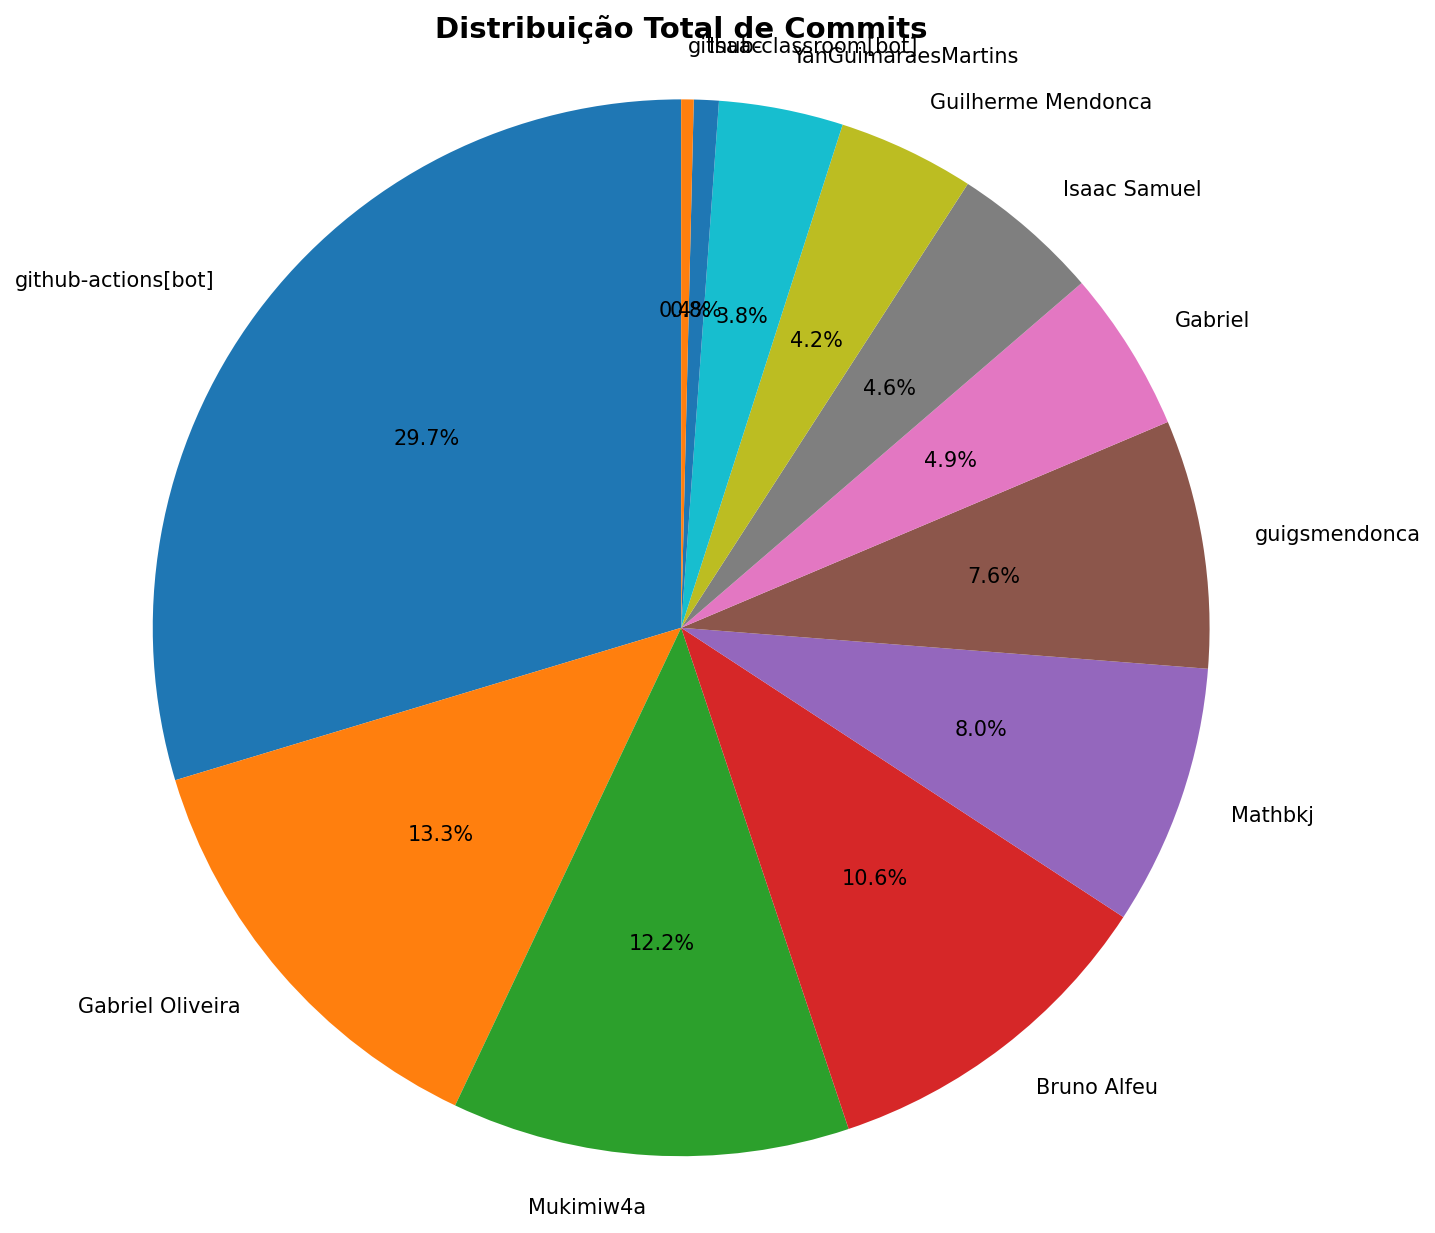
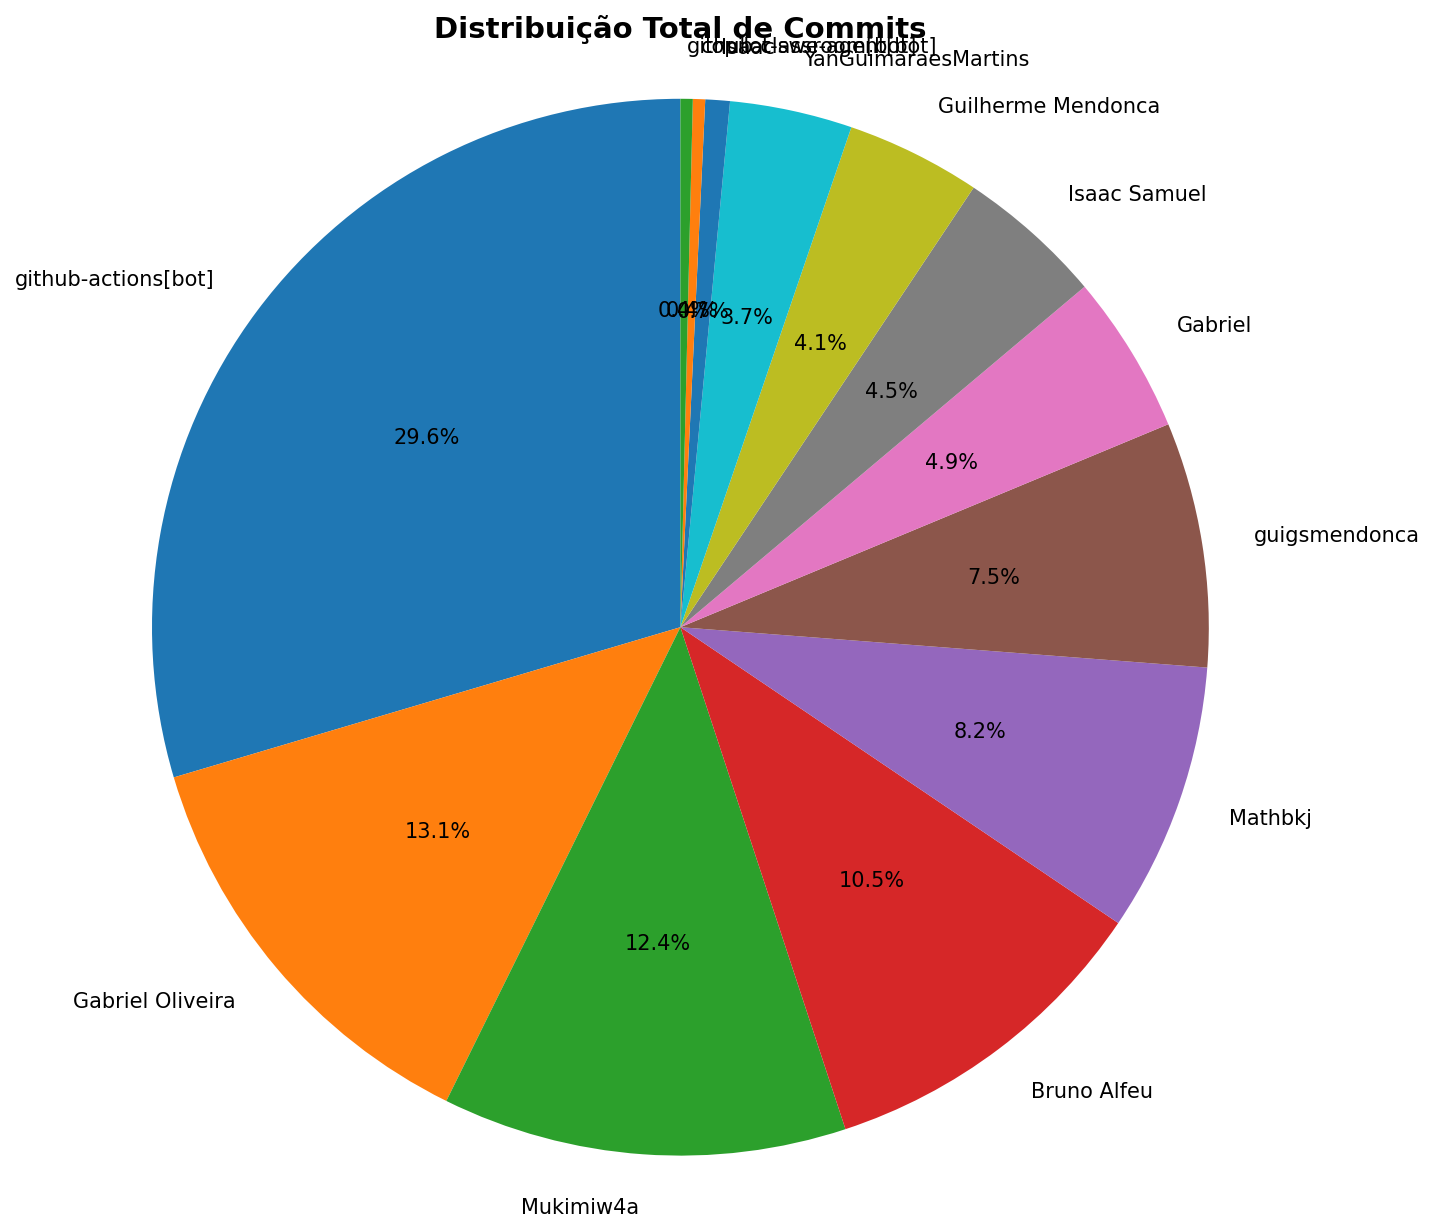
.

diff --git a/src/frontend-web/src/pages/auth/LoginPage.tsx b/src/frontend-web/src/pages/auth/LoginPage.tsx
@@ -61,6 +61,7 @@ export function LoginPage() {
             </span>
           </div>
 
+<<<<<<< HEAD
           <h1
             className="mb-8 text-5xl font-bold leading-tight"
             style={{ color: "var(--color-on-surface)" }}
@@ -69,6 +70,12 @@ export function LoginPage() {
             <span style={{ color: "var(--color-primary)" }}>
               ao Modernidade.
             </span>
+=======
+          <h1 className="mb-8 text-5xl font-bold leading-tight text-[#1f2937] lg:text-7xl">
+            Bem-vindo ao
+            <br />
+            <span className="text-[#2e4a7d]">Gestão de Condomínios</span>
+>>>>>>> 723e620 (.)
           </h1>
 
           <p

diff --git a/docs/CONTRIBUTION_REPORT.md b/docs/CONTRIBUTION_REPORT.md
@@ -1,34 +1,35 @@
 # 📊 Relatório de Contribuições do Projeto
 
-**Última atualização:** 04/05/2026 18:30
+**Última atualização:** 04/05/2026 20:33
 
 ---
 
 ## 📈 Resumo Geral de Contribuições
 
-| Aluno                 |   Commits |   Linhas+ |   Linhas- |   Arquivos |   Docs Commits |   Docs Arquivos |
-|-----------------------|-----------|-----------|-----------|------------|----------------|-----------------|
-| Bruno Alfeu           |        28 |      1070 |        70 |         32 |             15 |               5 |
-| Gabriel               |        13 |     99464 |       334 |        134 |              0 |               0 |
-| Gabriel Oliveira      |        35 |       208 |        80 |         13 |             29 |               5 |
-| Guilherme Mendonca    |        11 |      1079 |       362 |         20 |              9 |               3 |
-| Isaac                 |         2 |       424 |       224 |          6 |              0 |               0 |
-| Isaac Samuel          |        12 |        85 |        72 |          6 |             11 |               5 |
-| Mathbkj               |        21 |     21859 |       379 |        114 |              0 |               0 |
-| Mukimiw4a             |        32 |      1256 |       208 |         25 |             25 |               9 |
-| YanGuimaraesMartins   |        10 |       300 |        16 |          8 |              7 |               4 |
-| github-actions[bot]   |        78 |       559 |       543 |          3 |             78 |               1 |
-| github-classroom[bot] |         1 |      2152 |         0 |         45 |              1 |              13 |
-| guigsmendonca         |        20 |       178 |       150 |          9 |             16 |               4 |
+| Aluno                  |   Commits |   Linhas+ |   Linhas- |   Arquivos |   Docs Commits |   Docs Arquivos |
+|------------------------|-----------|-----------|-----------|------------|----------------|-----------------|
+| Bruno Alfeu            |        28 |      1070 |        70 |         32 |             15 |               5 |
+| Gabriel                |        13 |     99464 |       334 |        134 |              0 |               0 |
+| Gabriel Oliveira       |        35 |       208 |        80 |         13 |             29 |               5 |
+| Guilherme Mendonca     |        11 |      1079 |       362 |         20 |              9 |               3 |
+| Isaac                  |         2 |       424 |       224 |          6 |              0 |               0 |
+| Isaac Samuel           |        12 |        85 |        72 |          6 |             11 |               5 |
+| Mathbkj                |        22 |     25026 |       646 |        133 |              0 |               0 |
+| Mukimiw4a              |        33 |      1289 |       219 |         31 |             26 |               9 |
+| YanGuimaraesMartins    |        10 |       300 |        16 |          8 |              7 |               4 |
+| copilot-swe-agent[bot] |         1 |         0 |         0 |          0 |              0 |               0 |
+| github-actions[bot]    |        79 |       567 |       551 |          3 |             79 |               1 |
+| github-classroom[bot]  |         1 |      2152 |         0 |         45 |              1 |              13 |
+| guigsmendonca          |        20 |       178 |       150 |          9 |             16 |               4 |
 
 
 ## 📅 Contribuições Semanais (Todo o Semestre)
 
-**2026-04-27**: Bruno Alfeu: 2, Gabriel: 3, Gabriel Oliveira: 4, Mathbkj: 1, Mukimiw4a: 3, github-actions[bot]: 7
+**2026-04-27**: Bruno Alfeu: 2, Gabriel: 3, Gabriel Oliveira: 4, Mathbkj: 2, Mukimiw4a: 4, copilot-swe-agent[bot]: 1, github-actions[bot]: 8
 
-**2026-04-20**: Mukimiw4a: 5, github-actions[bot]: 6
+**2026-04-20**: github-actions[bot]: 1
 
-**2026-04-13**: Bruno Alfeu: 5, Gabriel Oliveira: 7, Isaac Samuel: 2, Mukimiw4a: 4, github-actions[bot]: 13
+**2026-04-13**: Bruno Alfeu: 5, Gabriel Oliveira: 7, Isaac Samuel: 2, Mukimiw4a: 9, github-actions[bot]: 18
 
 **2026-04-06**: Bruno Alfeu: 9, Gabriel: 5, Gabriel Oliveira: 7, Guilherme Mendonca: 4, Mathbkj: 10, Mukimiw4a: 7, github-actions[bot]: 26, guigsmendonca: 1
 
@@ -36,13 +37,13 @@
 
 **2026-03-23**: Gabriel: 2, Gabriel Oliveira: 3, Guilherme Mendonca: 2, Isaac: 1, Mathbkj: 2, Mukimiw4a: 3, github-actions[bot]: 12, guigsmendonca: 5
 
-**2026-03-16**: Bruno Alfeu: 3, Gabriel: 2, Gabriel Oliveira: 2, Guilherme Mendonca: 5, Isaac: 1, Isaac Samuel: 4, Mathbkj: 8, Mukimiw4a: 2, YanGuimaraesMartins: 3, github-actions[bot]: 12, guigsmendonca: 2
+**2026-03-16**: Bruno Alfeu: 3, Gabriel: 2, Gabriel Oliveira: 2, Guilherme Mendonca: 5, Isaac: 1, Isaac Samuel: 3, Mathbkj: 8, Mukimiw4a: 2, YanGuimaraesMartins: 3, github-actions[bot]: 12, guigsmendonca: 2
 
-**2026-03-09**: Bruno Alfeu: 2, Gabriel: 1, Gabriel Oliveira: 5, Mukimiw4a: 1, guigsmendonca: 1
+**2026-03-09**: Bruno Alfeu: 2, Gabriel: 1, Gabriel Oliveira: 5, Isaac Samuel: 1, Mukimiw4a: 1, guigsmendonca: 1
 
-**2026-03-02**: Bruno Alfeu: 4, Gabriel Oliveira: 5, Isaac Samuel: 6, Mukimiw4a: 5, YanGuimaraesMartins: 6, guigsmendonca: 6
+**2026-03-02**: Bruno Alfeu: 4, Gabriel Oliveira: 5, Isaac Samuel: 6, Mukimiw4a: 5, YanGuimaraesMartins: 5, guigsmendonca: 6
 
-**2026-02-23**: Bruno Alfeu: 2, Gabriel Oliveira: 2, Mukimiw4a: 2, YanGuimaraesMartins: 1, guigsmendonca: 5
+**2026-02-23**: Bruno Alfeu: 2, Gabriel Oliveira: 2, Mukimiw4a: 2, YanGuimaraesMartins: 2, guigsmendonca: 5
 
 **2026-02-16**: github-classroom[bot]: 1
 
